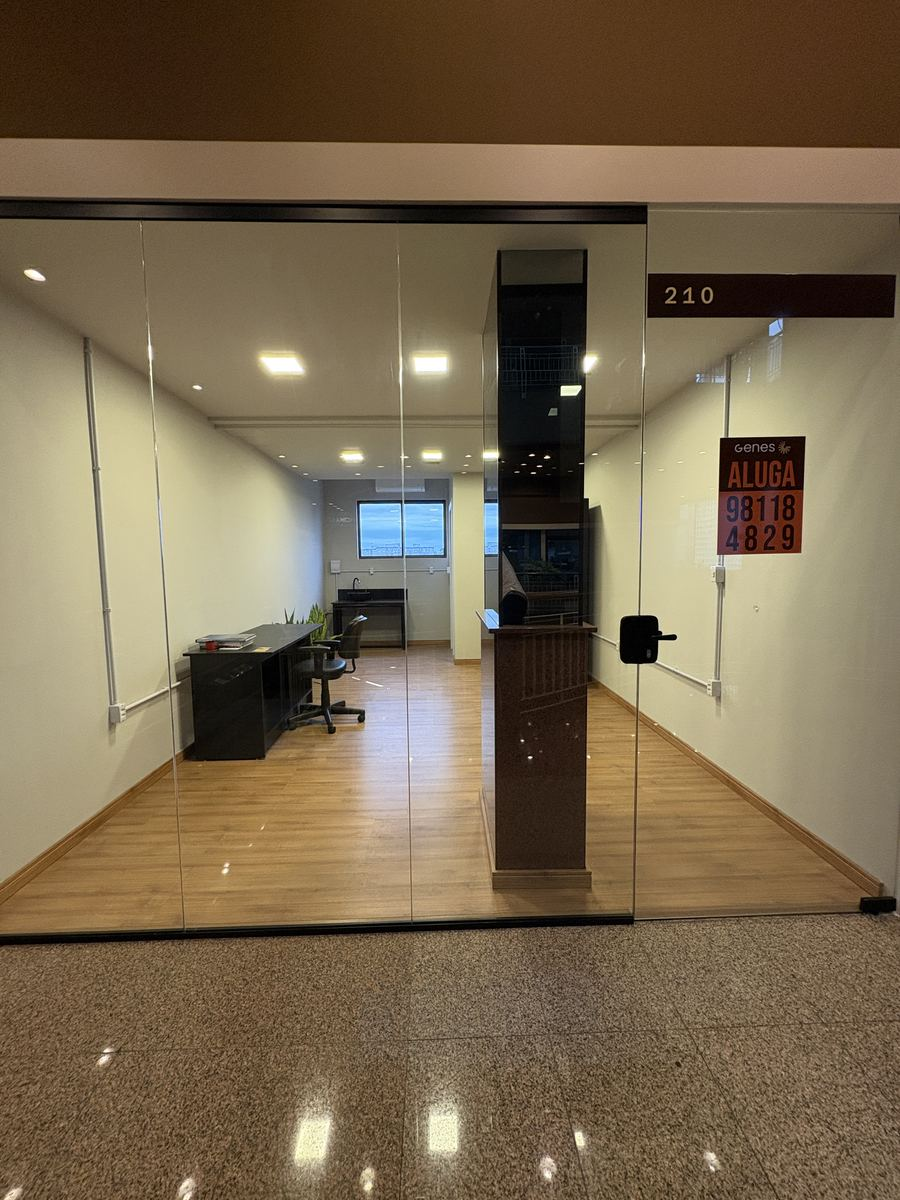
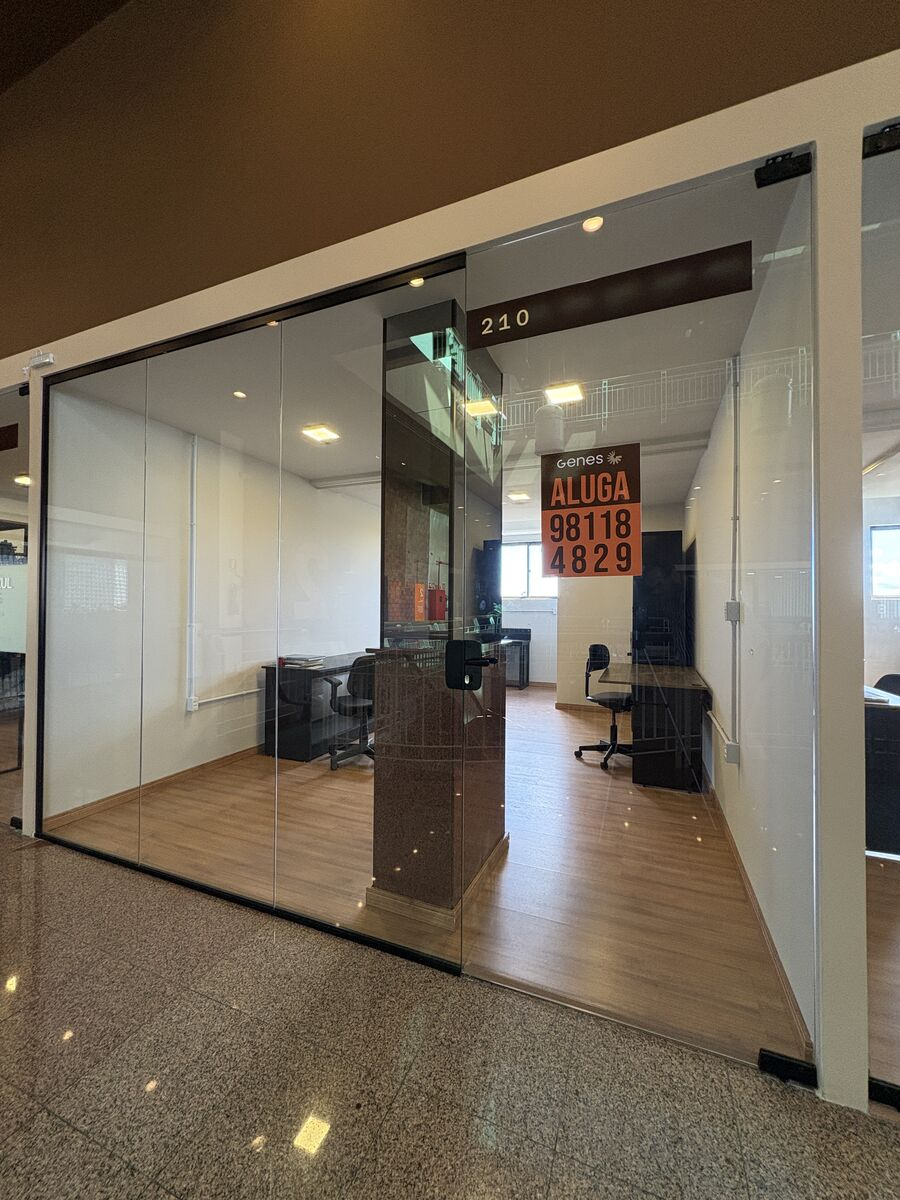
Carrossel de fotos nas salas 101, 112, 210 e 211
Inclui a sala 101 na vitrine, fotos novas das salas 101, 112 e 210,
vista da janela na 211, 210 semi-mobiliada, 112 com 5 ar-condicionados
e grade de salas em 2 colunas.

Claude-Session: https://claude.ai/code/session_01ER2nyE3AJ8etfwoQ93JHpH

diff --git a/index.html b/index.html
@@ -143,8 +143,20 @@
 
                 <!-- ========== SALA 112 ========== -->
                 <article class="sala-card">
-                    <div class="sala-media">
-                        <img src="images/sala-comercial-112.jpg" alt="Sala 112, de esquina, no térreo" loading="lazy" width="1200" height="1600">
+                    <!-- Carrossel: para adicionar fotos, inclua mais <img> dentro de carousel-track -->
+                    <div class="sala-media carousel" data-carousel>
+                        <div class="carousel-track" tabindex="0" aria-label="Fotos da Sala 112">
+                            <img style="object-position: center 30%" src="images/sala-112-1.jpg" alt="Fachada da Sala 112, vitrine de esquina no térreo" loading="lazy" width="900" height="1200">
+                            <img src="images/sala-112-2.jpg" alt="Sala 112, salão com vitrines para a rua" loading="lazy" width="900" height="1200">
+                            <img src="images/sala-112-3.jpg" alt="Sala 112, vitrines de esquina com vista para a avenida" loading="lazy" width="900" height="1200">
+                            <img src="images/sala-112-4.jpg" alt="Sala 112, salão principal visto da vitrine" loading="lazy" width="900" height="1200">
+                            <img src="images/sala-112-5.jpg" alt="Sala 112, área de fundos com acesso ao mezanino" loading="lazy" width="900" height="1200">
+                            <img src="images/sala-112-6.jpg" alt="Mezanino da Sala 112" loading="lazy" width="900" height="1200">
+                            <img src="images/sala-112-7.jpg" alt="Lavabo da Sala 112" loading="lazy" width="900" height="1200">
+                        </div>
+                        <button type="button" class="carousel-btn carousel-prev" aria-label="Foto anterior"><svg viewBox="0 0 24 24" aria-hidden="true"><path d="m15 18-6-6 6-6"/></svg></button>
+                        <button type="button" class="carousel-btn carousel-next" aria-label="Próxima foto"><svg viewBox="0 0 24 24" aria-hidden="true"><path d="m9 18 6-6-6-6"/></svg></button>
+                        <div class="carousel-dots" aria-hidden="true"></div>
                         <span class="sala-badge sala-badge-destaque">Destaque</span>
                     </div>
                     <div class="sala-body">
@@ -156,7 +168,7 @@
                             <div><dt>Andar</dt><dd>Térreo</dd></div>
                         </dl>
                         <ul class="sala-features">
-                            <li>4 ar-condicionados split</li>
+                            <li>5 ar-condicionados split</li>
                             <li>2 lavabos + bancada de granito com pia</li>
                             <li>Mezanino</li>
                         </ul>
@@ -167,10 +179,59 @@
                     </div>
                 </article>
 
+                <!-- ========== SALA 101 ========== -->
+                <article class="sala-card">
+                    <!-- Carrossel: para adicionar fotos, inclua mais <img> dentro de carousel-track -->
+                    <div class="sala-media carousel" data-carousel>
+                        <div class="carousel-track" tabindex="0" aria-label="Fotos da Sala 101">
+                            <img style="object-position: center 35%" src="images/sala-101-1.jpg" alt="Fachada da Sala 101, vitrine para a Av. Benjamin Constant" loading="lazy" width="900" height="1200">
+                            <img src="images/sala-101-2.jpg" alt="Sala 101, vitrine vista de dentro" loading="lazy" width="900" height="1200">
+                            <img src="images/sala-101-3.jpg" alt="Sala 101, salão do térreo" loading="lazy" width="900" height="1200">
+                            <img src="images/sala-101-4.jpg" alt="Sala 101, salão do térreo visto do fundo, com escada para o mezanino" loading="lazy" width="900" height="1200">
+                            <img src="images/sala-101-5.jpg" alt="Mezanino da Sala 101, com piso amadeirado" loading="lazy" width="900" height="1200">
+                            <img src="images/sala-101-6.jpg" alt="Sala reservada no mezanino da Sala 101" loading="lazy" width="900" height="1200">
+                            <img src="images/sala-101-7.jpg" alt="Lavabo da Sala 101" loading="lazy" width="900" height="1200">
+                        </div>
+                        <button type="button" class="carousel-btn carousel-prev" aria-label="Foto anterior"><svg viewBox="0 0 24 24" aria-hidden="true"><path d="m15 18-6-6 6-6"/></svg></button>
+                        <button type="button" class="carousel-btn carousel-next" aria-label="Próxima foto"><svg viewBox="0 0 24 24" aria-hidden="true"><path d="m9 18 6-6-6-6"/></svg></button>
+                        <div class="carousel-dots" aria-hidden="true"></div>
+                        <span class="sala-badge">Disponível</span>
+                    </div>
+                    <div class="sala-body">
+                        <h3 class="sala-title">Sala 101</h3>
+                        <p class="sala-description">Loja no térreo com vitrine para a Av. Benjamin Constant.</p>
+                        <dl class="sala-specs">
+                            <div><dt>Área</dt><dd>151,25 m²</dd></div>
+                            <div><dt>Garagem</dt><dd>1 box</dd></div>
+                            <div><dt>Andar</dt><dd>Térreo</dd></div>
+                        </dl>
+                        <ul class="sala-features">
+                            <li>Vitrine para a avenida</li>
+                            <li>Mezanino</li>
+                            <li>5 ar-condicionados</li>
+                            <li>2 lavabos + espaço para copa</li>
+                        </ul>
+                        <div class="sala-footer">
+                            <span class="sala-price"><small>Valor</small>Sob consulta</span>
+                            <a href="https://wa.me/5551981184829?text=Ol%C3%A1%21%20Vi%20a%20Sala%20101%20no%20site%20e%20gostaria%20de%20mais%20informa%C3%A7%C3%B5es." class="btn btn-primary btn-sm" target="_blank" rel="noopener">Tenho interesse</a>
+                        </div>
+                    </div>
+                </article>
+
                 <!-- ========== SALA 210 ========== -->
                 <article class="sala-card">
-                    <div class="sala-media">
-                        <img style="object-position: center 32%" src="images/sala-210-1.jpg" alt="Sala 210 vista do corredor, com porta de vidro" loading="lazy" width="900" height="1200">
+                    <!-- Carrossel: para adicionar fotos, inclua mais <img> dentro de carousel-track -->
+                    <div class="sala-media carousel" data-carousel>
+                        <div class="carousel-track" tabindex="0" aria-label="Fotos da Sala 210">
+                            <img style="object-position: center 30%" src="images/sala-210-1.jpg" alt="Sala 210 vista do corredor, com porta de vidro" loading="lazy" width="900" height="1200">
+                            <img src="images/sala-210-2.jpg" alt="Sala 210, ambiente de trabalho com mesas e armário" loading="lazy" width="900" height="1200">
+                            <img src="images/sala-210-3.jpg" alt="Sala 210 vista do fundo, em direção à entrada" loading="lazy" width="900" height="1200">
+                            <img src="images/sala-210-4.jpg" alt="Vista da janela da Sala 210" loading="lazy" width="900" height="1200">
+                            <img src="images/sala-210-5.jpg" alt="Lavabo da Sala 210" loading="lazy" width="900" height="1200">
+                        </div>
+                        <button type="button" class="carousel-btn carousel-prev" aria-label="Foto anterior"><svg viewBox="0 0 24 24" aria-hidden="true"><path d="m15 18-6-6 6-6"/></svg></button>
+                        <button type="button" class="carousel-btn carousel-next" aria-label="Próxima foto"><svg viewBox="0 0 24 24" aria-hidden="true"><path d="m9 18 6-6-6-6"/></svg></button>
+                        <div class="carousel-dots" aria-hidden="true"></div>
                         <span class="sala-badge">Disponível</span>
                     </div>
                     <div class="sala-body">
@@ -178,7 +239,7 @@
                         <p class="sala-description">Sala comercial no 2º andar, pronta para receber o seu negócio.</p>
                         <dl class="sala-specs">
                             <div><dt>Área</dt><dd>21,85 m²</dd></div>
-                            <div><dt>Mobiliada</dt><dd>Não</dd></div>
+                            <div><dt>Mobiliada</dt><dd>Semi</dd></div>
                             <div><dt>Andar</dt><dd>2º andar</dd></div>
                         </dl>
                         <ul class="sala-features">
@@ -203,6 +264,7 @@
                             <img src="images/sala-211-1.jpg" alt="Sala 211 mobiliada, com mesas e cadeiras de escritório" loading="lazy" width="900" height="1200">
                             <img src="images/sala-211-2.jpg" alt="Sala 211, bancadas de trabalho e iluminação de LED" loading="lazy" width="900" height="1200">
                             <img src="images/sala-211-3.jpg" alt="Sala 211, entrada e bancada" loading="lazy" width="900" height="1200">
+                            <img src="images/sala-211-6.jpg" alt="Vista da janela da Sala 211" loading="lazy" width="900" height="1200">
                             <img src="images/sala-211-5.jpg" alt="Lavabo da Sala 211" loading="lazy" width="900" height="1200">
                         </div>
                         <button type="button" class="carousel-btn carousel-prev" aria-label="Foto anterior"><svg viewBox="0 0 24 24" aria-hidden="true"><path d="m15 18-6-6 6-6"/></svg></button>

diff --git a/style.css b/style.css
@@ -186,7 +186,8 @@ a { color: inherit; }
 .salas { background: var(--creme-2); }
 .section-head .section-lead { margin-top: 0; }
 .section-head { display: flex; justify-content: space-between; align-items: flex-end; gap: 32px; flex-wrap: wrap; margin-bottom: 56px; }
-.salas-grid { display: grid; grid-template-columns: repeat(auto-fill, minmax(320px, 1fr)); gap: 28px; }
+.salas-grid { display: grid; grid-template-columns: repeat(2, minmax(0, 1fr)); gap: 28px; }
+@media (max-width: 760px) { .salas-grid { grid-template-columns: 1fr; } }
 
 .sala-card {
     background: var(--branco);
